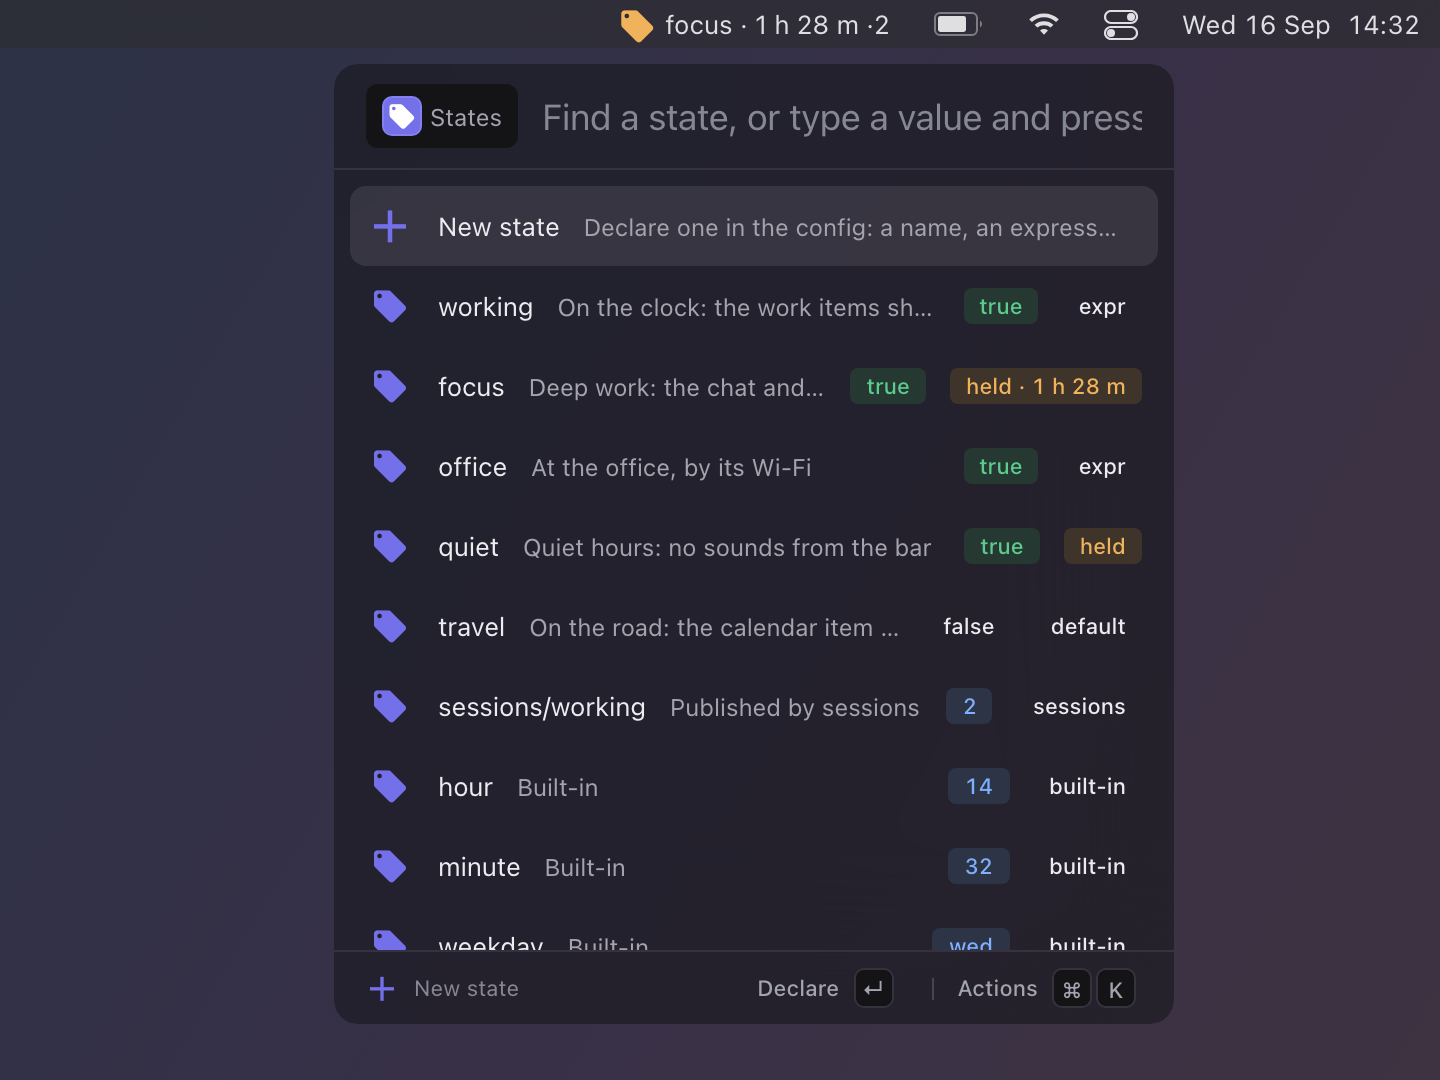
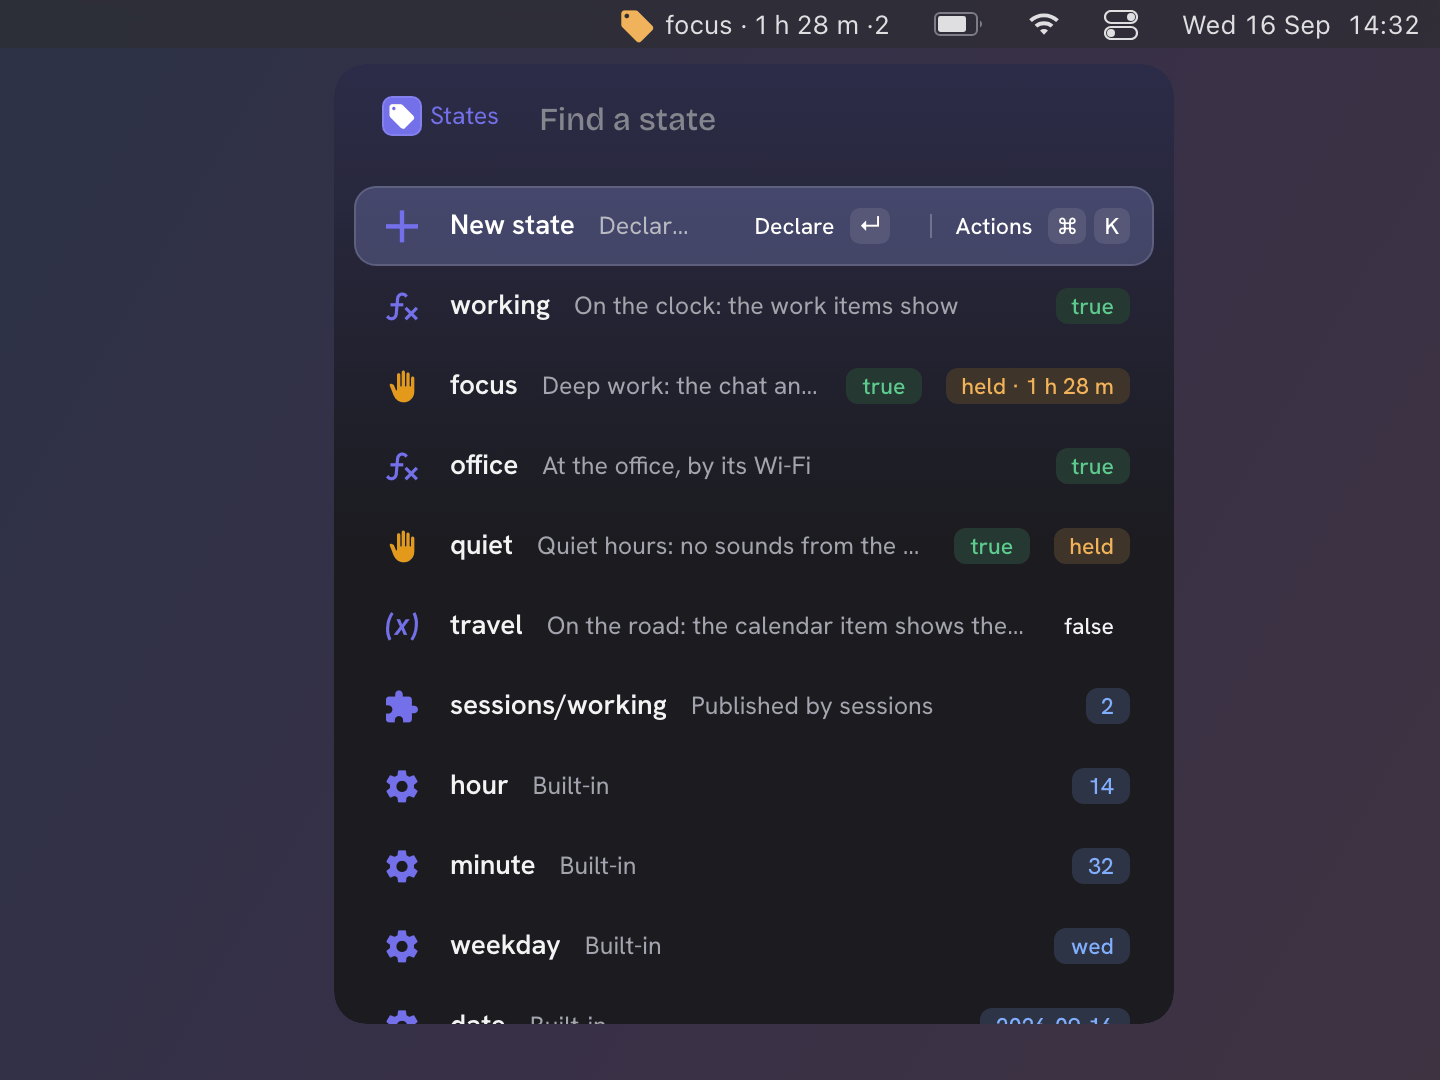
states: a row's glyph says which layer answers (held, expression, extension, built-in, default, a red alert on an error), so the accessories are the value and the hold alone; the placeholder is Find a state

diff --git a/extensions/states/index.ts b/extensions/states/index.ts
@@ -4,8 +4,12 @@
 // the table.
 import { argsForm, failed, hint, now as clock, parseDuration, state, toast, type Accessory, type Action, type Arg, type BarItem, type Effect, type Extension, type Item, type StateEntry, type StateValue } from "@zcag/pal";
 
-const GLYPH = "\u{f04f9}"; //  nf-md-variable
+const GLYPH = "\u{f04f9}"; //  nf-md-tag, the extension's and the bar item's
 const PLUS = "\u{f0415}";
+/** A row's glyph says which layer answers: held by hand, its expression, an extension, built in, the default; a failed expression is red. */
+const LAYER = { manual: "\u{f0e47}", expr: "\u{f0871}", published: "\u{f0431}", builtin: "\u{f0493}", default: "\u{f0ae7}", error: "\u{f0028}" }; // md-hand_back_right, function_variant, puzzle, cog, variable, alert_circle
+const layerIcon = (e: StateEntry): Item["icon"] =>
+  e.error ? { glyph: LAYER.error, color: "red" } : e.source === "manual" ? { glyph: LAYER.manual, color: "amber" } : e.builtin ? LAYER.builtin : typeof e.source === "object" ? LAYER.published : e.source === "expr" ? LAYER.expr : LAYER.default;
 const NEW = "new";
 
 const NEW_ARGS: Arg[] = [
@@ -42,7 +46,8 @@ const valueTag = (v: StateValue): Accessory => v === null ? { tag: "unknown", co
 function row(e: StateEntry, now: number): Item {
   const manual = e.source === "manual";
   const subtitle = e.error ? `Error: ${e.error}` : e.description ?? (e.expr ? `= ${e.expr}` : e.builtin ? "Built-in" : manual ? "Set by hand" : `Published by ${sourceText(e)}`);
-  const accessories: Accessory[] = [valueTag(e.value), { tag: manual ? (e.until ? `held · ${left(e.until - now)}` : "held") : sourceText(e), color: manual ? "amber" : e.error ? "red" : "muted" }];
+  // The value, and the hold with its time left; the glyph says the other layers, the line under the name who publishes.
+  const accessories: Accessory[] = [valueTag(e.value), ...(manual ? [{ tag: e.until ? `held · ${left(e.until - now)}` : "held", color: "amber" }] : [])];
   const boolean = typeof e.value === "boolean" || e.value === null;
   // Every action but the typed value also takes marked states (`multi`); Set true/false sets them all to what the addressed row would become.
   const actions: Action[] = e.builtin
@@ -57,7 +62,7 @@ function row(e: StateEntry, now: number): Item {
         { id: "copy", title: "Copy name", multi: true },
         ...(e.declared ? [{ id: "undeclare", title: "Remove from config", shortcut: "cmd+backspace", style: "destructive" as const, multi: true as const, confirm: "Remove its [states] entry from the config file?" }] : []),
       ];
-  return { id: e.name, name: e.name, subtitle, icon: GLYPH, keywords: ["state", e.name, sourceText(e)], accessories, args: SET_ARGS, actions };
+  return { id: e.name, name: e.name, subtitle, icon: layerIcon(e), keywords: ["state", e.name, sourceText(e)], accessories, args: SET_ARGS, actions };
 }
 
 const newRow: Item = { id: NEW, name: "New state", subtitle: "Declare one in the config: a name, an expression, a default", icon: PLUS, keywords: ["state", "new", "declare", "variable"], args: NEW_ARGS, actions: [{ id: "declare", title: "Declare", args: true }] };
@@ -135,7 +140,7 @@ export default {
     states: {
       title: "States",
       live: true,
-      placeholder: "Find a state, or type a value and press Enter on one",
+      placeholder: "Find a state",
       filters: [{ id: "all", title: "All" }, { id: "held", title: "Held by hand" }, { id: "mine", title: "Mine" }, { id: "ext", title: "From extensions" }, { id: "builtin", title: "Built-in" }],
       list,
       pick,

diff --git a/host/test/extensions/states.test.ts b/host/test/extensions/states.test.ts
@@ -60,9 +60,10 @@ describe("over the wire", () => {
     const r = await rows();
     expect(r[0].id).toBe("new");
     expect(r.map((x) => x.id)).toEqual(["new", "hour", "working", "deep", "sessions/working"]);
-    expect(byId(r, "working").accessories).toEqual([{ tag: "false", color: "muted" }, { tag: "expr", color: "muted" }]);
+    // The value alone beside an expression's row; its glyph says the layer.
+    expect(byId(r, "working")).toMatchObject({ accessories: [{ tag: "false", color: "muted" }], icon: "\u{f0871}" });
     expect(byId(r, "working").subtitle).toBe("On the clock");
-    expect(byId(r, "hour").accessories).toEqual([{ tag: "10", color: "blue" }, { tag: "built-in", color: "muted" }]);
+    expect(byId(r, "hour")).toMatchObject({ accessories: [{ tag: "10", color: "blue" }], icon: "\u{f0493}" });
     expect(byId(r, "hour").actions?.map((a) => a.id)).toEqual(["copy"]); // a built-in is only copied
     expect(byId(r, "sessions/working").subtitle).toBe("Published by sessions");
     expect(byId(r, "deep").actions?.map((a) => a.id)).toEqual(["toggle", "set", "hold-1h", "hold-3h", "hold-tomorrow", "copy", "undeclare"]);

diff --git a/extensions/states/fixture.ts b/extensions/states/fixture.ts
@@ -44,7 +44,7 @@ try {
     palettes: { states: palette },
     effects: { "states/new": { form } },
     shots: {
-      "1-list": { palette: "states", keys: [], caption: "Every state with its value and which layer answers: its expression, set by hand with the time left, a publisher, built-in" },
+      "1-list": { palette: "states", keys: [], caption: "Every state with its value; the glyph says which layer answers (its expression, held by hand with the time left, an extension, built in)" },
       "2-held": { palette: "states", keys: ["tab"], caption: "Tab steps through the filters: held by hand, yours, what extensions publish, the built-ins" },
       "3-actions": { palette: "states", keys: ["down*2", "cmd+k"], caption: "Set a state for an hour, three, until tomorrow or a value typed, reset it, or remove it from the config" },
       "4-new": { palette: "states", keys: ["enter", "type:meeting", "tab", "type:hour >= 15 and hour < 16"], caption: "New state writes [states.<name>] to the config: a name, an expression over the others, a default" },
